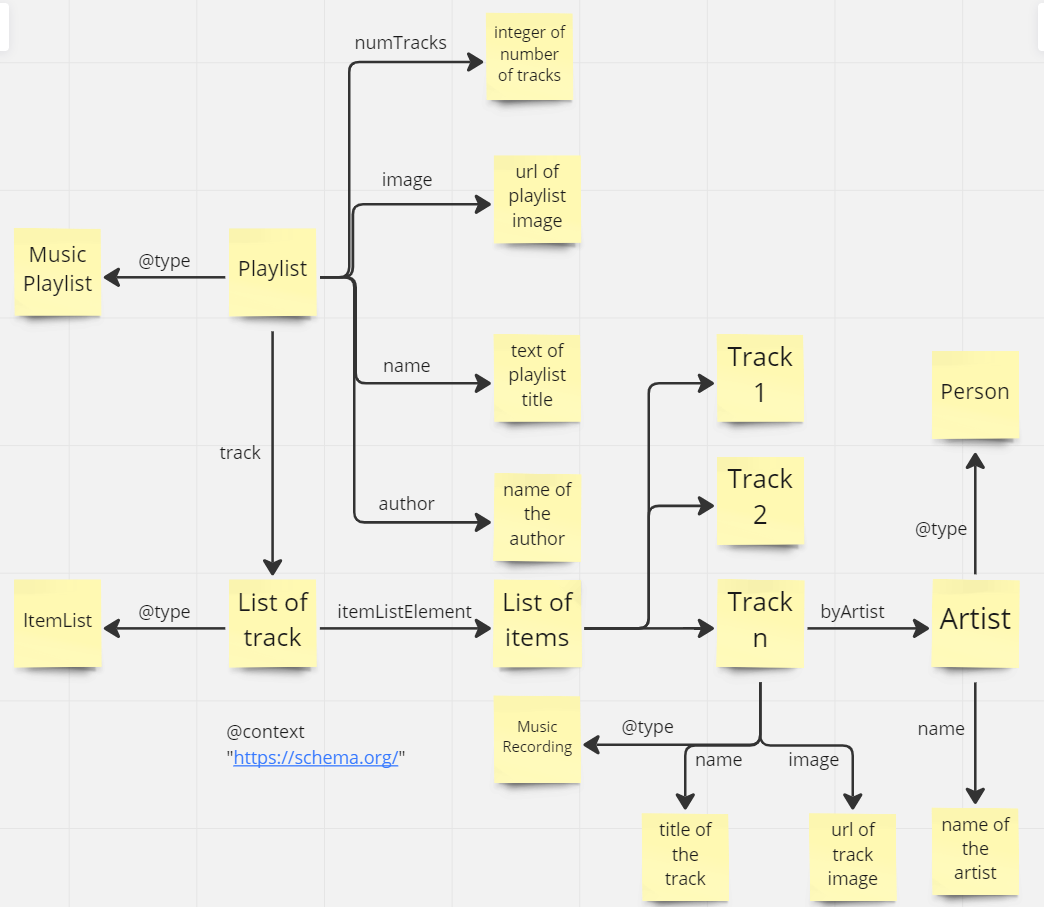
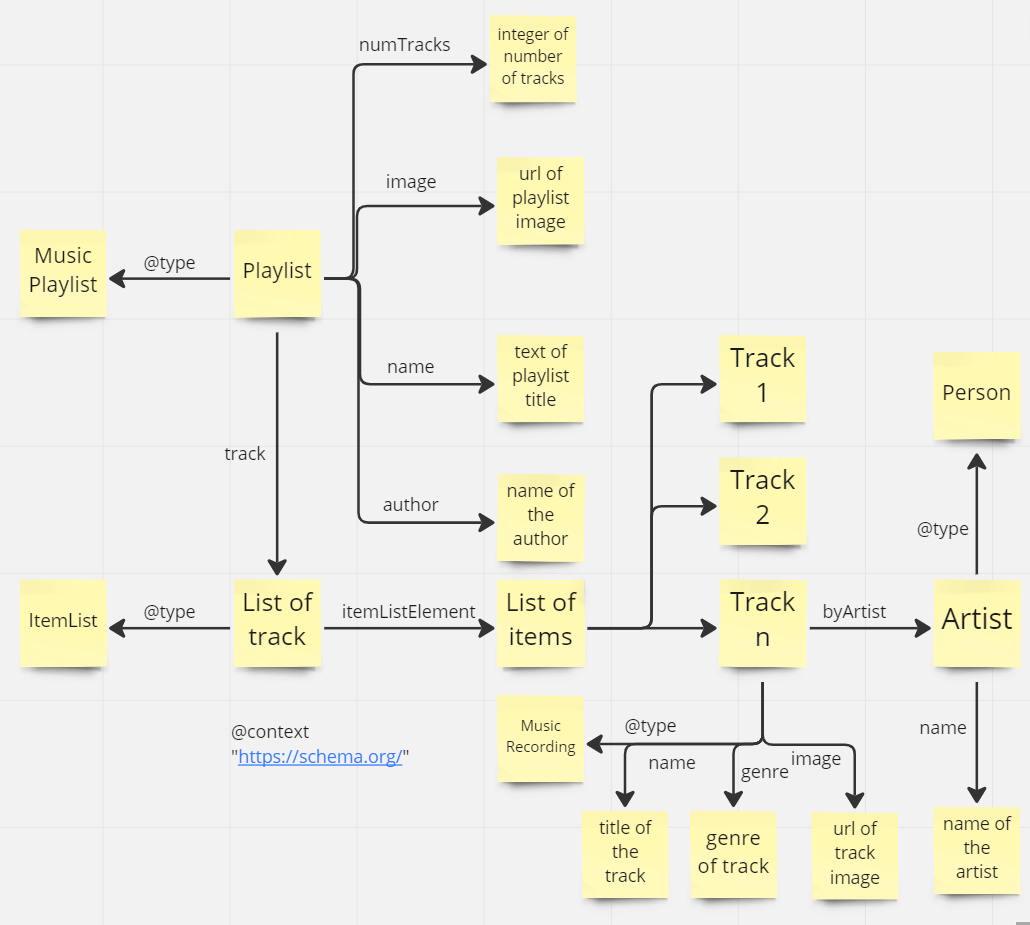
added conceptual models

Changed region(s): [[0.0, 0.0, 1.0, 1.0], [0.2175, 0.7718, 0.4039, 0.8644]]

diff --git a/docs/index.html b/docs/index.html
@@ -1189,9 +1189,8 @@
             <div class="card-body">
               <h2 class="card-title" id="ontology_and_vocabularies">6. Ontology and Vocabularies</h2>
               <blockquote>
-                <p>We'll make use of the following ontology and vocabularies in order to model our business case. Some
-                  of
-                  them are needed for the Music Ontology that we use.</p>
+                <p>We'll make use of the following ontology and vocabularies in order to model our business case. We used <b>schema.org</b> and
+                  <b>Music Ontology</b>. For that we needed the following prefixes:
                 <ul>
                   <li><b>PREFIX schema</b>: https://schema.org/ </li>
                   <li><b>PREFIX rdf</b>: http://www.w3.org/1999/02/22-rdf-syntax-ns# </li>
@@ -1208,15 +1207,51 @@
               <h3 class="card-title">Vinyl Resource graph</h3>
               <blockquote>
                 <ul>
-                  <li><b>rdfs: subClassOf</b> defines a subclass of the class MusicRecording from schema.org</li>
-                  <li><b>schema: byArtist</b> represent the artist that performed this album or recording</li>
-                  <li><b>mo:Genre</b> an expressive style of music represented by any text or a reference to a DBPedia
+                  <li><b>@type</b> defines the type of the entity</li>
+                  <li><b>@id</b> defines the uri for the resource</li>
+                  <li><b>mo:genre</b> an expressive style of music represented by any text or a reference to a DBPedia
                     genre (such as http://dbpedia.org/resource/Baroque_music), allowing semantic web clients to access
                     easily really detailed structured information about the genre you are refering to.</li>
-                  <li><b>schema: member</b> Represents a member of the MusicGroup.</li>
-                  <li><b>schema: givenName</b> Represetns the first name of a Person, more accurate of the artist</li>
+                  <li><b>mo:image</b> Indicates a pictorial image (JPEG, GIF, PNG, Etc.) of a musical work, the expression of a musical work</li>
+                  <li><b>dc:title</b> defines the title of the Vinyl</li>
+                  <li><b>dc:date</b> defines release date of the Vinyl</li>
+                  <li><b>foaf:maker</b> defines the relationship between an artist and the vinyl</li>
                 </ul>
-                <img class="img-fluid" src="./vinyl-graph.png" alt="Vinyl Graph">
+                <img class="img-fluid" src="./rdf-models/vinyl.png" alt="Vinyl Graph">
+              </blockquote>
+              <h3 class="card-title">Artist Resource graph</h3>
+              <blockquote>
+                <ul>
+                  <li><b>@type</b> defines the type of the entity</li>
+                  <li><b>mo:image</b> Indicates a pictorial image (JPEG, GIF, PNG, Etc.) of a musical work, the expression of a musical work</li>
+                  <li><b>foaf:name</b> Indicates the name of the artist</li>
+                </ul>
+                <img class="img-fluid" src="./rdf-models/artist.png" alt="Artist Graph">
+              </blockquote>
+              <h3 class="card-title">Playlist Resource graph</h3>
+              <blockquote>
+                <ul>
+                  <li><b>@type</b> defines the type of the entity</li>
+                  <li><b>image</b> Indicates a image for an entity</li>
+                  <li><b>name</b> Indicates the name of an entity</li>
+                  <li><b>author</b> Indicates the author of an entity</li>
+                  <li><b>genre</b> Indicates the genre of a music piece</li>
+                  <li><b>numTrack</b> Indicates the number of tracks from the playlist</li>
+                  <li><b>track</b> Defines the relationship between a playlist and its tracks</li>
+                  <li><b>itemListElement</b> Defines the actual list of tracks from the playlist</li>
+                  <li><b>byArtist</b> represent the artist that performed this album or recording</li>
+                </ul>
+                <img class="img-fluid" src="./rdf-models/playlist.png" alt="Playlist Graph">
+              </blockquote>
+              <h3 class="card-title">Track Resource graph</h3>
+              <blockquote>
+                <ul>
+                  <li><b>@type</b> defines the type of the entity</li>
+                  <li><b>name</b> Indicates the name of an entity</li>
+                  <li><b>url</b> Indicates the uri of the entity</li>
+                  <li><b>byArtist</b> represent the artist that performed this album or recording</li>
+                </ul>
+                <img class="img-fluid" src="./rdf-models/track.png" alt="Track Graph">
               </blockquote>
             </div>
           </div>
